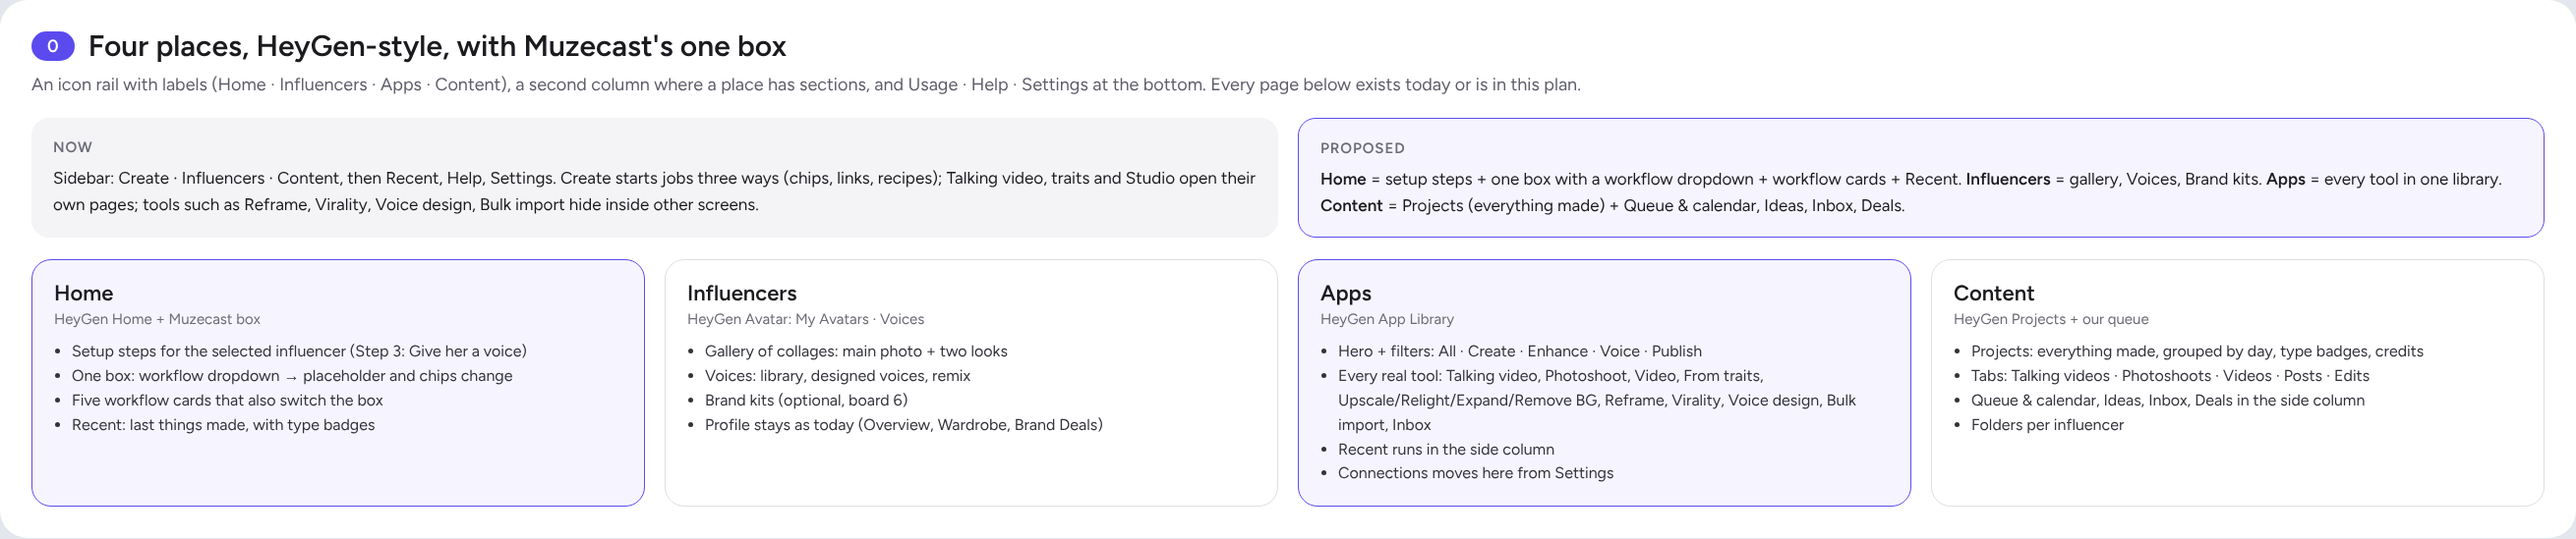
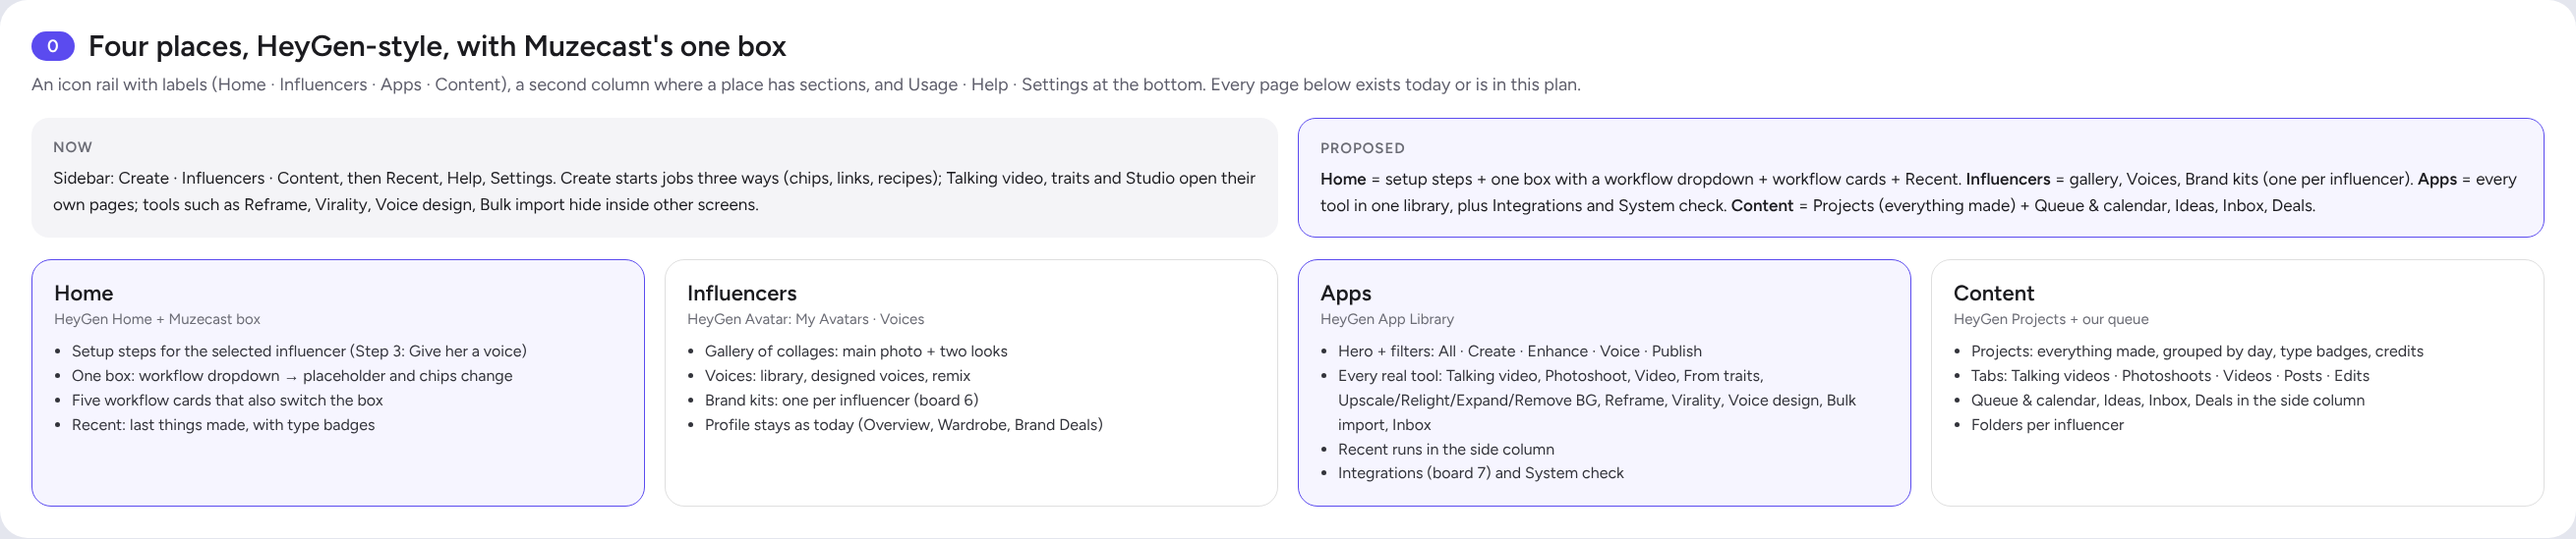
Revise proposal: brand identity per influencer and Integrations (boards 6–7)
- Board 6 is now a full brand identity board, following HeyGen's Brand
  System: brand spec with previews of her own content, voice and words,
  pronunciation, assets, motion, and starting a kit from her profile, a
  link or a style. Includes where each part is applied and what is new
  work (captions burned into the video, a link reader).
- New board 7: Apps › Integrations from the real connector catalog, with an
  honest status on each card (Connected, Not connected, Key saved, Coming)
  and System check alongside.
- README: sources, how brand kits work (exported as W3C tokens JSON), how
  Integrations works, decisions 5, 8 and 9, phases.

Claude-Session: https://claude.ai/code/session_01PVd21DPN8je9gxGs56Gv62

diff --git a/docs/research/reimagine/README.md b/docs/research/reimagine/README.md
@@ -9,7 +9,7 @@ Status: **proposal, not built.** Nothing in the app changes until we agree on th
   - the workflow dropdown;
   - per-workflow placeholders and chips;
   - the "Add media" sheet.
-- **HeyGen.** Taken from five screenshots you shared: Home, Avatar (My Avatars, Voices), Brand Systems, App Library and Projects.
+- **HeyGen.** Taken from screenshots you shared: Home, Avatar (My Avatars, Voices), Brand Systems, App Library, Projects, Integrations and New Brand System. A second recording walks through a brand kit's four tabs: Brand Spec (colours and fonts with live previews), Assets, Logos and Motion.
 - **Muse today.** Taken from the Create screen and the code as merged after #30.
 
 Mockups are ours, in Muse's style, light and dark. Photos come from the app's own seed influencers in `public/`. Every tool shown on a card exists today, unless a note says it's new.
@@ -35,7 +35,8 @@ Mockups are ours, in Muse's style, light and dark. Photos come from the app's ow
 | `board-3.png` | **Influencers:** a gallery of collages (main photo plus two looks), with Voices and Brand kits as sections; New influencer offers Describe or From traits |
 | `board-4.png` | **Apps:** every real tool in one library, filtered by All, Create, Enhance, Voice and Publish; recent runs in the side column; Connections moves here |
 | `board-5.png` | **Content as Projects:** everything made, grouped by day, with type, status and credits; Queue and calendar, Ideas, Inbox and Deals sit in the side column; folders per influencer |
-| `board-6.png` | **Brand kits (optional, new):** one kit per influencer (colours, caption style, words to use and avoid, watermark), used by captions, talking videos and deal packs |
+| `board-6.png` | **Brand identity, one kit per influencer:** Brand spec (colour roles, fonts, previews using her own content), Voice and words (tone, always/never, call to action, pronunciation), Assets, Motion. A kit starts from her profile, from a link, or from a style |
+| `board-7.png` | **Integrations:** a grid of the real connector catalog, with an honest status on every card (Connected, Not connected, Key saved, Coming) and System check next to it |
 
 ### How it maps onto what exists
 
@@ -52,12 +53,43 @@ Mockups are ours, in Muse's style, light and dark. Photos come from the app's ow
 | Apps | Every tool listed exists | The library page itself |
 | Projects | Media, Create sessions, posts | Group by job (a photoshoot is one card); folders |
 | Usage in the rail | ElevenLabs characters (built) | Higgsfield has no balance API, so its costs stay on each button. No invented number |
-| Brand kits | Nothing | **New** feature |
+| Brand kits | Influencer fields: vibe words, niche, backstory, clothing style, an empty `palette` | **New:** kit editor, previews, applying the kit (see below) |
+| Integrations page | Settings › Connections (catalog, statuses, “what it does” list), System check | Move it into Apps; card grid; fix stale lines (ElevenLabs voiceovers are live, not planned) |
 
 ### Also fixed along the way
 
 - The placeholder uses the selected influencer's name, never a fixed "she".
 - The duplicate ways to start a job collapse into one: the dropdown plus the cards.
+
+## Brand identity: how it works
+
+One kit per influencer, stored on her record (local-first), and exportable as **W3C design tokens JSON**. That's the format Muse already uses for its own tokens, so the kit stays portable and isn't tied to any one tool.
+
+| Part | What's in it | Where it's applied |
+|---|---|---|
+| Brand spec | Colour roles: background, text, accent, caption highlight, panel. Two fonts: captions and titles | Talking video captions; post covers and story slides; brand deal approval packs; palette hints in Create prompts |
+| Voice and words | Tone, always-use words, never-use words, hashtags, sign-off and call to action | Composer rewrites and hashtags; talking video scripts ("Write it for me"); Inbox suggested replies; Weekly ideas |
+| Pronunciation | Words and how to say them (HeyGen's Brand Glossary) | Sent to ElevenLabs as a pronunciation dictionary for every voiceover |
+| Assets | Handle watermark, logo or wordmark, products and props, music beds | Watermark on talking videos and exports; products in deal shoots |
+| Motion | Caption animation (bold, karaoke, none); intro and outro card | Talking videos |
+
+**Starting a kit:**
+- **From her profile:** colours are read from her main photo and looks in the browser; tone and words are drafted by Claude from her niche, vibe and backstory. You review it before saving.
+- **From a link:** her Instagram, link-in-bio or a brand site.
+- **From a style preset:** chosen by niche.
+
+**New work this needs:**
+1. Burning styled captions and a watermark into the video file. Today captions play as a separate track and download as `.srt`. This needs either in-browser video encoding or a Higgsfield step.
+2. Reading a link. This needs a server-side page reader; today's proxy reads images only.
+
+## Integrations: how it works
+
+- **Where it lives:** Apps › Integrations replaces Settings › Connections.
+- **What each card shows:** a status and what the service does for you, taken from the catalog's own "can" list.
+  - **Connected:** a feature is using it. Higgsfield, Claude, ElevenLabs, and Ayrshare, Zapier, Make, n8n, webhook or Blueprint once you connect them.
+  - **Key saved:** you've stored a key, but no feature uses it yet (HeyGen, Runway, Kling, Luma and others). The card says so plainly instead of implying it works.
+  - **Coming:** listed so you can see where Muse is heading. Not built.
+- **System check:** sits next to the grid, and tests every connected service without spending credits.
 
 ## Decisions needed
 
@@ -65,13 +97,16 @@ Mockups are ours, in Muse's style, light and dark. Photos come from the app's ow
 2. **Home:** setup steps, one box, workflow cards and Recent. This replaces today's chips, links, Recipes and the Getting started strip. OK?
 3. **Box workflows:** Talking video, Video, Photoshoot and Post, with New influencer under the list. Recipes become "Browse setups" inside Photoshoot, and Idea leaves Create (it lives in Content › Ideas). OK?
 4. **Remake a reel** (Higgsfield motion transfer): add it now or later? **FlipScript** (keep a reel's structure, write your own script) needs a transcript source and would be its own phase.
-5. **Brand kits:** include (new feature) or skip?
+5. **Brand kits:** build them as the identity layer, so every workflow reads the kit? If yes, the two new pieces are captions burned into the video and a link reader. Include both, or start with the profile-based kit only?
 6. **Content becomes Projects** (grouped by job, with folders), with the queue and the rest in the side column. OK?
 7. **Look:** keep Muse's lavender, light and dark, as shown, rather than HeyGen's dark-only or Muzecast's warm orange?
+8. **Integrations:** move Connections into Apps › Integrations, as a card grid with honest statuses?
+9. **Unused keys:** for services with a key saved but no feature (HeyGen, Runway, Kling and others), wire one of them up next, or hide them until they do something?
 
 ## Suggested phases (after agreement)
 
 1. **Box and Home:** dropdown, per-workflow chips, the "Add media" sheet, workflow cards, setup steps, and the placeholder fix.
-2. **Navigation:** icon rail; the Apps library; the Influencers gallery and Voices.
-3. **Content as Projects:** grouping and folders.
-4. **New features:** Remake a reel; Brand kits.
+2. **Navigation:** icon rail; the Apps library with Integrations; the Influencers gallery and Voices.
+3. **Brand identity:** kit editor and previews; build a kit from her profile; apply it in the composer, scripts, replies and deal packs; pronunciation for ElevenLabs. Then captions burned into the video and import from a link.
+4. **Content as Projects:** grouping and folders.
+5. **Remake a reel.**
